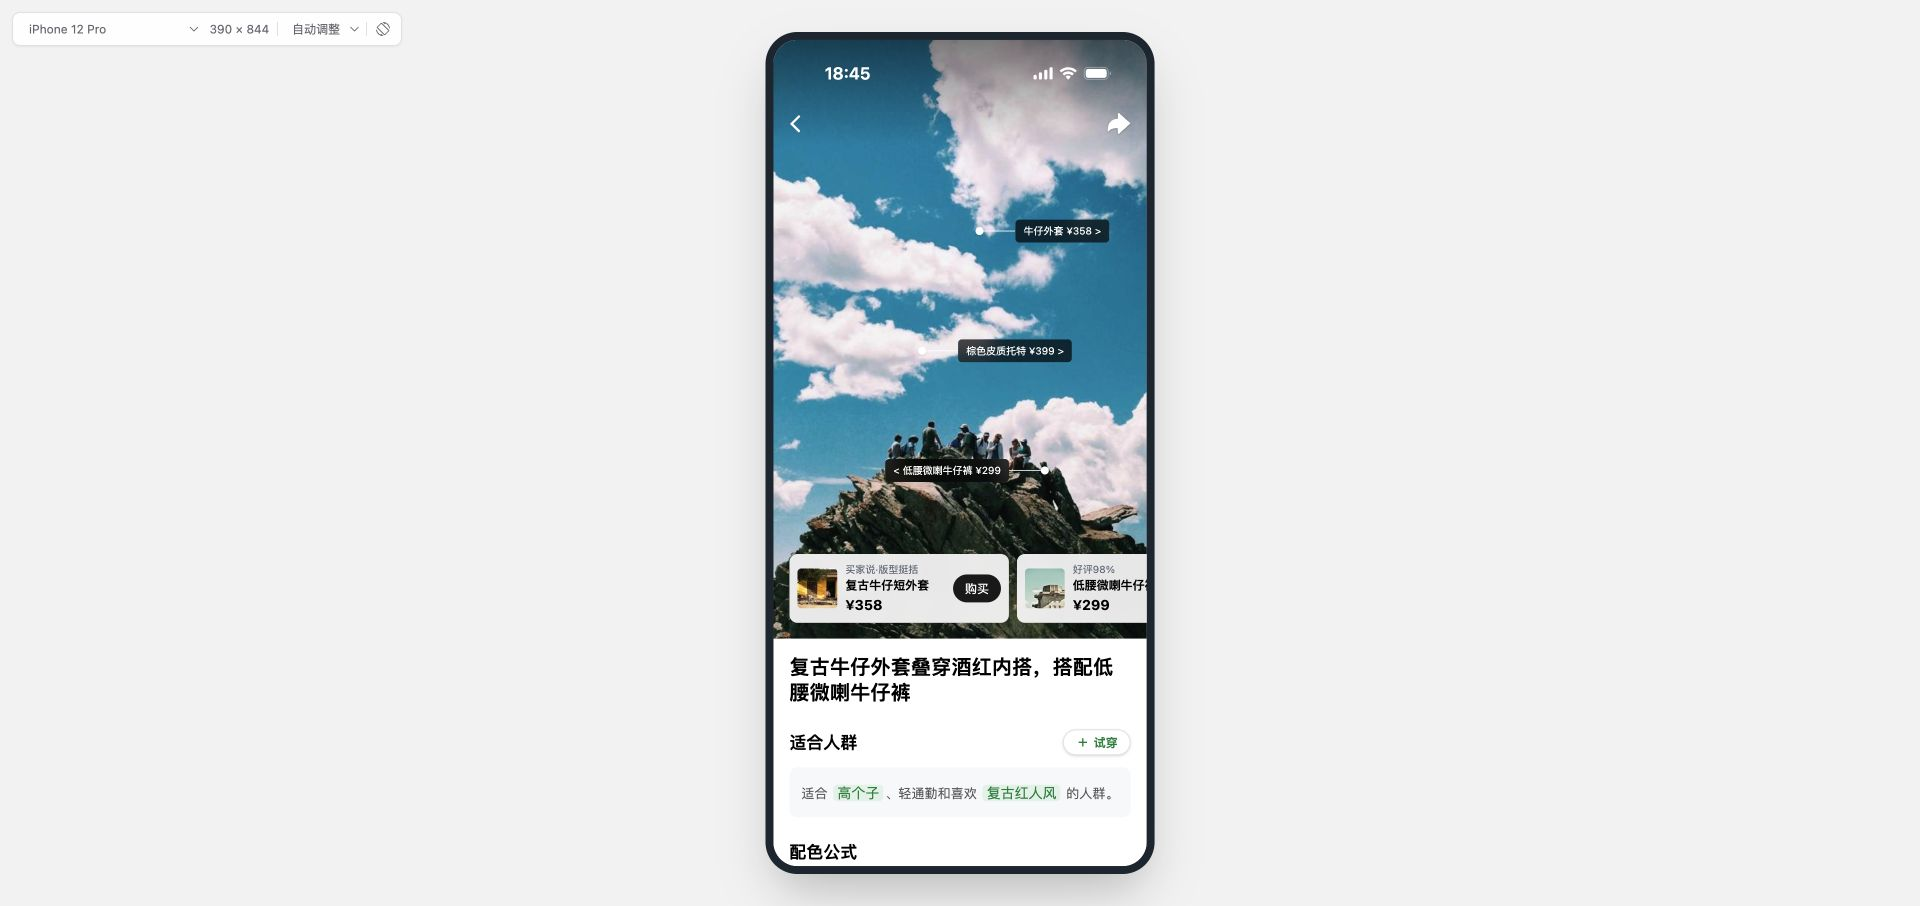
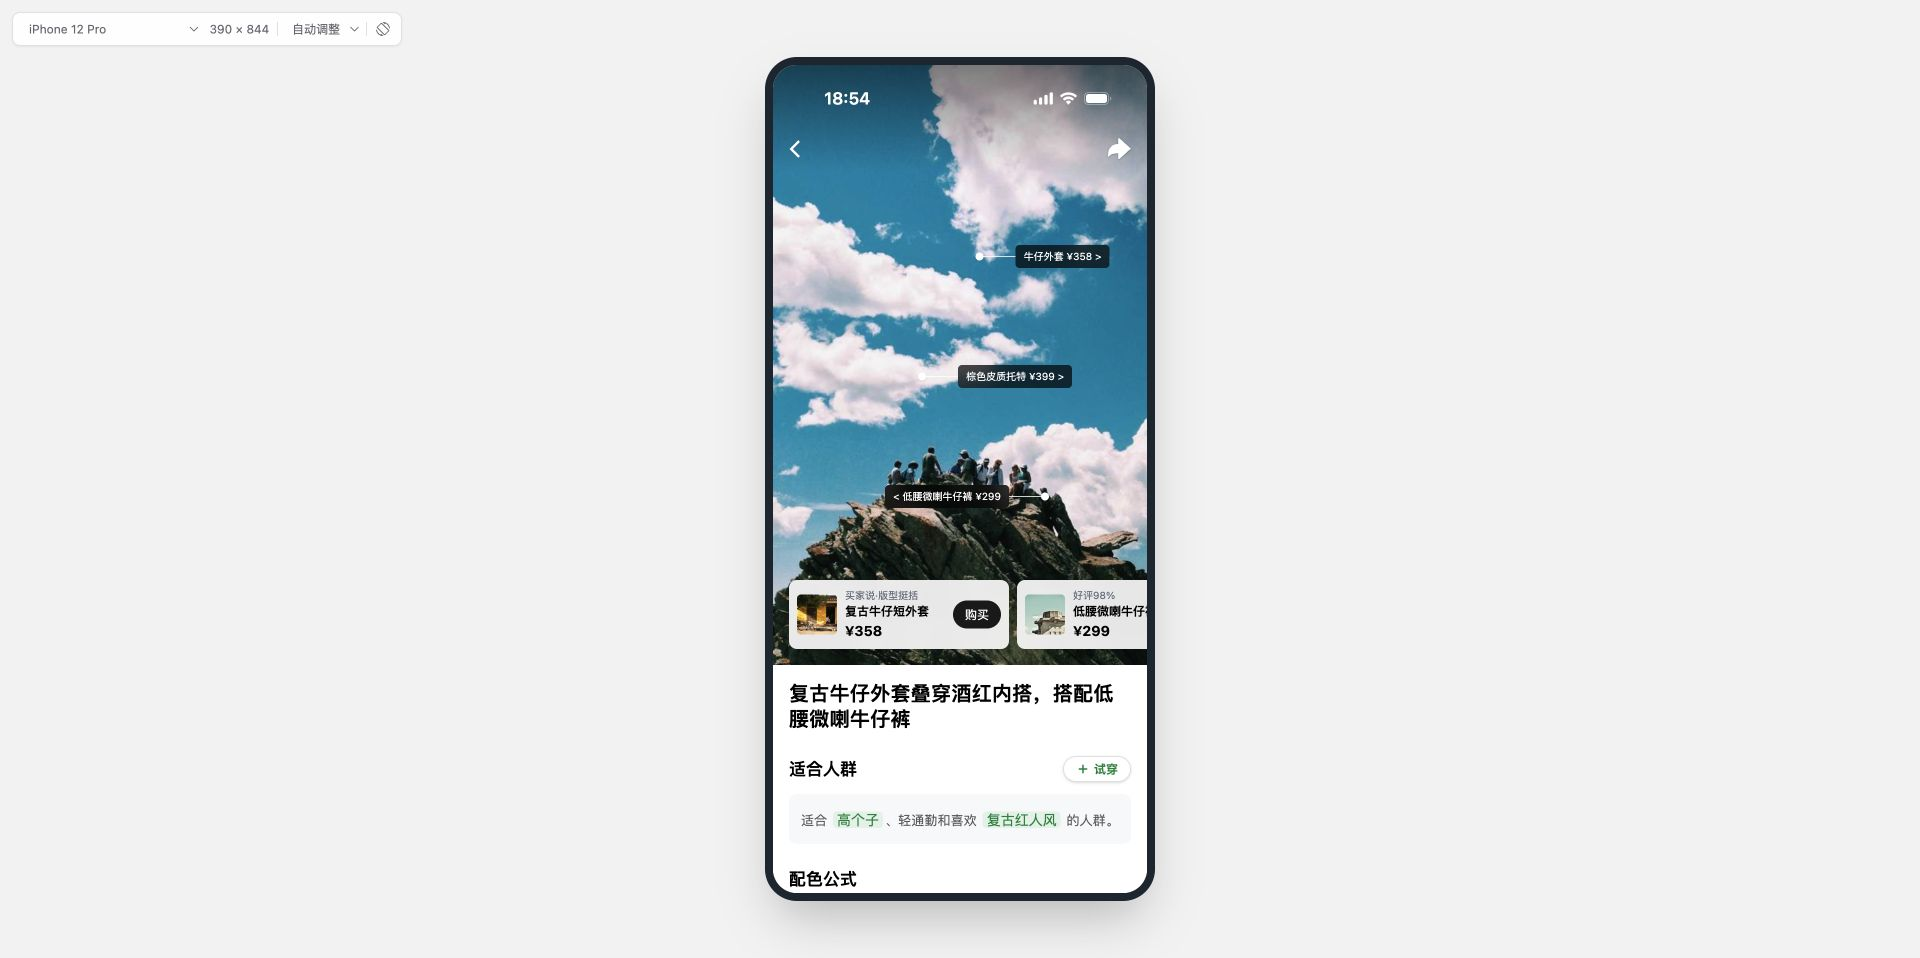
test: calibrate Inspire outfit evidence

diff --git a/experiments/cells/outfit-tab/inspire-prototype/qa/browser-qa.md b/experiments/cells/outfit-tab/inspire-prototype/qa/browser-qa.md
@@ -5,6 +5,8 @@
 - Browser viewport wrapper: iPhone 12 Pro, 390 × 844
 - Platform compile/runtime report: compile success, 5/5 generated captures, no reported runtime errors
 - Live browser console warnings/errors: none
+- Raw task states: `browser-qa.raw.json`; replay implementation: `replay-browser-qa.mjs`
+- Separate `pageerror` capture is unavailable in the selected browser API. This is recorded as an evidence gap in the raw JSON; the original platform result reported `runtimeErrors=[]`.
 
 ## Fixed tasks
 
